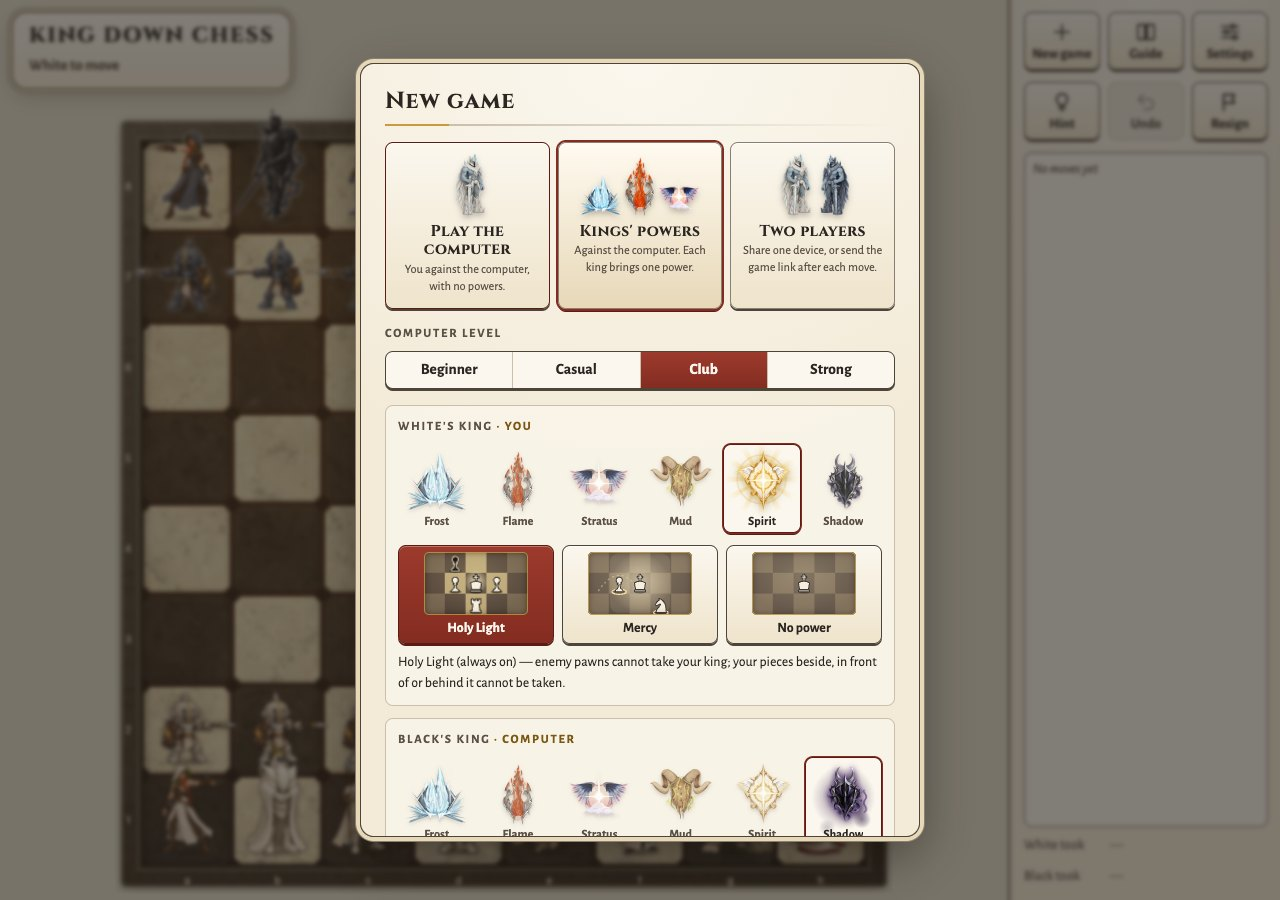
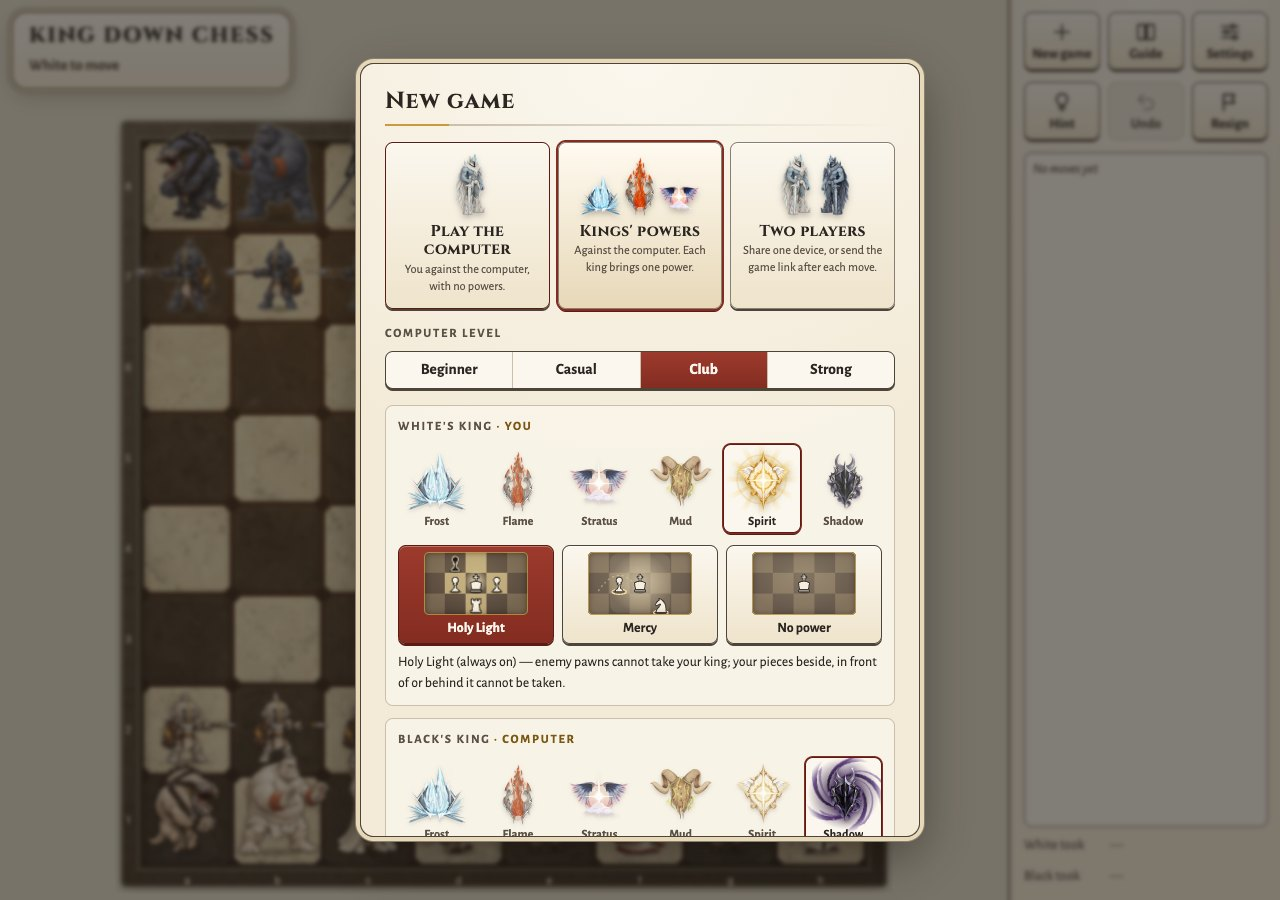
Emblem effects: a dark purple vortex behind Shadow, wind gusts behind Stratus
Owner, on the preview: "shadow emblem animation - not that. should be a dark purple vortex
behind it." and "stratus emblem - remove the moving clouds. the lines at the back should look
more like wind gusts."

Shadow: five spiral arms, deep purple to near-black, turning slowly behind the emblem; fainter
arms and motes are drawn into its eye. Stratus: six gusts behind the emblem, each a curved
streak with a curled tip that sweeps across and fades at its own speed; no clouds or rings.
The other four emblems and the twelve power pictures are unchanged.

Claude-Session: desktop 1c5adfa2-c747-4b20-ac72-5d45fc6131ab

diff --git a/src/power-motion.ts b/src/power-motion.ts
@@ -179,6 +179,40 @@ const sparkle = (x: number, y: number, s: number, n: number): string =>
 const dot = (cls: string, x: number, y: number, r: number, n: number): string =>
   `<circle class="a c ${cls} kx-d${n}" cx="${x}" cy="${y}" r="${r}"/>`;
 
+/**
+ * A gust from (x, y), `len` long to the right (`dir` 1) or left (-1), bending by `bend`, ending in a
+ * curl up (`curl` 1) or down (-1). Drawn and erased along its length (pathLength 100) by CSS.
+ */
+function gust(x: number, y: number, len: number, bend: number, curl: number, cls: string, width: 1 | 2): string {
+  const d = (dx: number) => (dx * (x > 50 ? -1 : 1) * (Math.abs(dx) < 10 ? 1.35 : 1)).toFixed(1), c = (dy: number) => (dy * curl * 1.35).toFixed(1);
+  const path = `M${x} ${y}c${d(len * .3)} ${-bend} ${d(len * .62)} ${bend} ${d(len)} ${c(-1.5)}`
+    + `c${d(5)} ${c(-1)} ${d(8)} ${c(-5)} ${d(5)} ${c(-8)}c${d(-2.6)} ${c(-2.6)} ${d(-6.4)} ${c(-.6)} ${d(-5)} ${c(2.4)}c${d(.9)} ${c(1.8)} ${d(3.4)} ${c(1.4)} ${d(3.6)} ${c(-.2)}`;
+  return `<path class="a kx-gust ${cls} gust-${width}" d="${path}" pathLength="100"/>`;
+}
+
+/**
+ * `arms` spiral arms around (50, 50), each turning inward counter-clockwise from radius `r` to 4 and
+ * narrowing from `w` radians; `turn0` rotates the whole set. Turned clockwise, the arms seem to flow in.
+ */
+function vortex(arms: number, r: number, w: number, turn0: number): string {
+  const T = 1.7 * Math.PI, N = 26, k = Math.log(r / 4) / T;
+  const pt = (t: number, a: number) => {
+    const rad = r * Math.exp(-k * t);
+    return `${(50 + rad * Math.cos(a)).toFixed(1)} ${(50 + rad * Math.sin(a)).toFixed(1)}`;
+  };
+  let d = '';
+  for (let i = 0; i < arms; i++) {
+    const base = turn0 + i * 2 * Math.PI / arms, edge: string[] = [], back: string[] = [];
+    for (let j = 0; j <= N; j++) {
+      const t = T * j / N, a = base - t;
+      edge.push(pt(t, a));
+      back.push(pt(t, a + w * (1 - .7 * j / N)));
+    }
+    d += `M${edge.join('L')}L${back.reverse().join('L')}z`;
+  }
+  return d;
+}
+
 const FX: Record<KingName, (g: string) => [back: string, front: string]> = {
   Frost: g => [
     `<defs>${grad(g, '#9fd8ff', .75)}</defs><circle class="a c kx-glow" cx="50" cy="56" r="48" fill="url(#${g})"/>`,
@@ -191,13 +225,13 @@ const FX: Record<KingName, (g: string) => [back: string, front: string]> = {
       + dot('kx-ember ember', 28, 26, 2, 4) + dot('kx-ember ember ember-hot', 52, 4, 1.7, 5) + dot('kx-ember ember ember-hot', 72, 22, 1.6, 6)
       + dot('kx-ember ember ember-hot', 40, 50, 1.5, 3) + dot('kx-ember ember', 62, 58, 1.8, 5),
   ],
+  // Stratus: wind gusts behind the emblem, each a curved streak with a curled tip that sweeps across
+  // and fades, at its own speed. The emblem has its own painted clouds.
   Stratus: g => [
-    `<defs>${grad(g, '#cfe6ff', .8)}</defs><circle class="a c kx-glow" cx="50" cy="50" r="48" fill="url(#${g})"/>`
-      + '<circle class="a c kx-spin wind" cx="50" cy="48" r="44" pathLength="100"/>',
-    '<circle class="a c kx-spin-r wind wind-2" cx="50" cy="50" r="38" pathLength="100"/>'
-      + '<g class="a kx-cloud kx-d0"><path class="cloud" d="M8 86a6 6 0 0 1 6-7 8 8 0 0 1 15-2 5 5 0 0 1 4 9z"/></g>'
-      + '<g class="a kx-cloud-r kx-d2"><path class="cloud" d="M64 92a5 5 0 0 1 5-6 7 7 0 0 1 13-1 4.5 4.5 0 0 1 3 7z"/></g>'
-      + '<path class="a kx-gust gust-line kx-d1" d="M6 30q14-6 26 0"/><path class="a kx-gust gust-line kx-d3" d="M66 64q14-6 28 0"/>',
+    `<defs>${grad(g, '#cfe6ff', .7)}</defs><circle class="a c kx-glow" cx="50" cy="50" r="48" fill="url(#${g})"/>`
+      + gust(-12, 8, 82, 8, 1, 'kx-g1', 1) + gust(112, 20, 70, -8, -1, 'kx-g2', 2) + gust(-14, 66, 60, 7, -1, 'kx-g3', 1)
+      + gust(114, 86, 76, 8, 1, 'kx-g4', 2) + gust(-10, 94, 66, -6, 1, 'kx-g5', 1) + gust(110, 36, 46, 6, -1, 'kx-g6', 2),
+    '',
   ],
   Mud: g => [
     `<defs><radialGradient id="${g}"><stop offset="0" stop-color="#9aae4a" stop-opacity=".7"/><stop offset=".6" stop-color="#8a6a32" stop-opacity=".3"/><stop offset="1" stop-color="#8a6a32" stop-opacity="0"/></radialGradient></defs><circle class="a c kx-glow" cx="50" cy="56" r="48" fill="url(#${g})"/>`,
@@ -220,14 +254,21 @@ const FX: Record<KingName, (g: string) => [back: string, front: string]> = {
       dot('kx-rise light', 30, 70, 1.4, 1) + dot('kx-rise light', 70, 66, 1.2, 4) + dot('kx-rise light', 54, 80, 1.1, 2),
     ];
   },
-  Shadow: g => [
-    `<defs>${grad(g, '#3a1f52', .75)}<radialGradient id="${g}s"><stop offset="0" stop-color="#2c1a3c" stop-opacity=".55"/><stop offset=".55" stop-color="#3b2350" stop-opacity=".3"/><stop offset="1" stop-color="#3b2350" stop-opacity="0"/></radialGradient></defs>`
-      + `<circle class="a c kx-aura" cx="50" cy="56" r="50" fill="url(#${g})"/>`
-      + `<circle class="a c kx-smoke kx-d0" cx="28" cy="72" r="24" fill="url(#${g}s)"/><circle class="a c kx-smoke kx-d2" cx="72" cy="68" r="22" fill="url(#${g}s)"/><circle class="a c kx-smoke kx-d4" cx="50" cy="44" r="26" fill="url(#${g}s)"/>`,
-    `<circle class="a c kx-smoke kx-d1" cx="24" cy="92" r="18" fill="url(#${g}s)"/><circle class="a c kx-smoke kx-d3" cx="78" cy="90" r="16" fill="url(#${g}s)"/>`
-      + '<path class="a kx-curl curl kx-d0" d="M16 84c-8-10 6-14 0-24s4-14 2-20"/><path class="a kx-curl curl kx-d2" d="M84 80c8-10-6-14 0-24s-4-14-2-20"/>'
-      + '<path class="a kx-curl curl curl-2 kx-d4" d="M50 98c-6-8 5-12 0-20"/>',
-  ],
+  // Shadow: a dark purple vortex behind the emblem, turning slowly; fainter arms and motes of light are
+  // drawn into its eye.
+  Shadow: g => {
+    const ink = `<radialGradient id="${g}a" gradientUnits="userSpaceOnUse" cx="50" cy="50" r="62"><stop offset="0" stop-color="#050307" stop-opacity=".97"/>`
+      + '<stop offset=".45" stop-color="#170a24" stop-opacity=".92"/><stop offset=".78" stop-color="#3a1863" stop-opacity=".72"/><stop offset="1" stop-color="#4a2380" stop-opacity="0"/></radialGradient>';
+    const disc = `<radialGradient id="${g}d"><stop offset="0" stop-color="#050307" stop-opacity=".95"/><stop offset=".55" stop-color="#1f0e30" stop-opacity=".65"/><stop offset="1" stop-color="#2e1546" stop-opacity="0"/></radialGradient>`;
+    return [
+      `<defs>${ink}${disc}</defs><circle class="a c kx-eye" cx="50" cy="50" r="56" fill="url(#${g}d)"/>`
+        + `<g class="a kx-vx kx-turn"><path d="${vortex(5, 62, .34, 0)}" fill="url(#${g}a)"/></g>`
+        + `<g class="a kx-vx kx-pull kx-p0"><path class="vx-light" d="${vortex(5, 58, .16, .6)}"/></g>`
+        + `<g class="a kx-vx kx-pull kx-p1"><path class="vx-light" d="${vortex(5, 58, .16, .6)}"/></g>`
+        + [0, 1, 2, 3].map(n => `<circle class="a c kx-mote-in kx-m${n} vx-mote" cx="50" cy="50" r="1.5"/>`).join(''),
+      '',
+    ];
+  },
 };
 
 /**

diff --git a/src/power-motion.css b/src/power-motion.css
@@ -368,19 +368,18 @@ button.emblem[aria-pressed='true'] .kx-shadow img { filter: drop-shadow(0 0 3px 
   100% { opacity: 0; transform: translate(calc(var(--dx) * -.5), -28px) scale(.4); }
 }
 
-/* Stratus: wind and drifting clouds */
-.kx .wind { fill: none; stroke: #6f9fcc; stroke-width: 2.4; stroke-linecap: round; stroke-dasharray: 20 12 7 61; opacity: .85; }
-.kx .wind-2 { stroke: #9cc0e4; stroke-width: 1.7; stroke-dasharray: 15 35; }
-.kx .cloud { fill: #fff; stroke: #9db9d6; stroke-width: 1; }
-.kx .gust-line { fill: none; stroke: #8db3d8; stroke-width: 1.8; stroke-linecap: round; }
-.kx-spin { animation: kx-spin 6s linear infinite; }
-.kx-spin-r { animation: kx-spin 4.4s linear infinite reverse; }
-.kx-cloud { animation: kx-drift 4.2s ease-in-out infinite; --dx: 9px; }
-.kx-cloud-r { animation: kx-drift 4.2s ease-in-out infinite; --dx: -8px; }
-.kx-gust { opacity: .7; animation: kx-gust 2.6s ease-in-out infinite; }
-@keyframes kx-spin { to { transform: rotate(360deg); } }
-@keyframes kx-drift { 0%, 100% { transform: none; } 50% { transform: translateX(var(--dx)); } }
-@keyframes kx-gust { 0% { opacity: 0; transform: translateX(-10px); } 30% { opacity: .9; } 70% { opacity: .6; } 100% { opacity: 0; transform: translateX(14px); } }
+/* Stratus: wind gusts behind the emblem, each at its own speed */
+.kx .kx-gust { fill: none; stroke-linecap: round; stroke-linejoin: round; stroke-dasharray: 100 100; opacity: .75; }
+.kx .gust-1 { stroke: #6795c4; stroke-width: 2.6; }
+.kx .gust-2 { stroke: #92b8e0; stroke-width: 1.9; }
+.kx-gust { animation: kx-gust 2.4s cubic-bezier(.45, .05, .55, .95) infinite; }
+.kx .kx-g1 { animation-duration: 2.3s; animation-delay: 0s; } .kx .kx-g2 { animation-duration: 3.1s; animation-delay: -1.2s; }
+.kx .kx-g3 { animation-duration: 1.8s; animation-delay: -.5s; } .kx .kx-g4 { animation-duration: 2.7s; animation-delay: -2s; }
+.kx .kx-g5 { animation-duration: 2.1s; animation-delay: -1.5s; } .kx .kx-g6 { animation-duration: 3.4s; animation-delay: -.9s; }
+@keyframes kx-gust {
+  0% { stroke-dashoffset: 100; opacity: 0; transform: translateX(-5px); } 12% { opacity: .9; }
+  48% { stroke-dashoffset: 0; } 78% { opacity: .8; } 100% { stroke-dashoffset: -100; opacity: 0; transform: translateX(6px); }
+}
 
 /* Mud: falling leaves and earth motes */
 .kx .leaf { fill: #7da33a; stroke: #3d5a1c; stroke-width: .5; }
@@ -405,13 +404,19 @@ button.emblem[aria-pressed='true'] .kx-shadow img { filter: drop-shadow(0 0 3px 
 @keyframes kx-rays { to { transform: rotate(30deg); } }
 @keyframes kx-halo { 0% { opacity: .9; transform: scale(.72); } 100% { opacity: 0; transform: scale(1.5); } }
 
-/* Shadow: curling smoke and a dark aura */
-.kx .curl { fill: none; stroke: rgba(74, 40, 104, .7); stroke-width: 2.6; stroke-linecap: round; }
-.kx .curl-2 { stroke: rgba(120, 80, 160, .55); stroke-width: 1.8; }
-.kx-aura { animation: kx-glow 3.2s ease-in-out infinite; }
-.kx-smoke { opacity: .8; animation: kx-smoke 3.6s ease-in-out infinite; }
-.kx-curl { opacity: .6; animation: kx-curl 3s ease-in-out infinite; }
-@keyframes kx-smoke {
-  0% { opacity: 0; transform: translateY(12px) scale(.7); } 30% { opacity: 1; } 100% { opacity: 0; transform: translate(var(--dx), -26px) scale(1.35); }
+/* Shadow: a dark purple vortex behind the emblem, drawing inward */
+.kx .vx-light { fill: #4f2580; }
+.kx .vx-mote { fill: #a983d8; }
+.kx .kx-vx { transform-box: view-box; transform-origin: 50% 50%; }
+.kx-turn { animation: kx-turn 9s linear infinite; }
+.kx-pull { opacity: .35; animation: kx-pull 3.4s cubic-bezier(.5, 0, .9, .6) infinite; }
+.kx .kx-p1 { animation-delay: -1.7s; }
+.kx-eye { animation: kx-glow 3.4s ease-in-out infinite; }
+.kx-mote-in { opacity: 0; animation: kx-mote-in 2.8s cubic-bezier(.4, 0, .9, .5) infinite; }
+.kx .kx-m1 { animation-delay: -.7s; --a: 90deg; } .kx .kx-m2 { animation-delay: -1.4s; --a: 200deg; } .kx .kx-m3 { animation-delay: -2.1s; --a: 300deg; }
+@keyframes kx-turn { to { transform: rotate(360deg); } }
+@keyframes kx-pull { 0% { opacity: 0; transform: scale(1.15); } 30% { opacity: .5; } 100% { opacity: 0; transform: rotate(150deg) scale(.4); } }
+@keyframes kx-mote-in {
+  0% { opacity: 0; transform: rotate(var(--a, 0deg)) translateX(46px); } 20% { opacity: .9; }
+  100% { opacity: 0; transform: rotate(calc(var(--a, 0deg) + 330deg)) translateX(3px); }
 }
-@keyframes kx-curl { 0% { opacity: 0; transform: translateY(10px) scaleY(.7); } 35% { opacity: .9; } 100% { opacity: 0; transform: translate(var(--dx), -20px) rotate(10deg) scaleY(1.15); } }

diff --git a/TASKS.md b/TASKS.md
@@ -5,9 +5,11 @@
 - Owner, the same day: "show me the animations before adding them. i want to approve." Branch `claude/power-motion` (from `claude/six-kings`), not merged, not deployed. The preview for approval was a standalone page with the twelve power animations and six emblem effects live, plus videos of the dialog (desktop, phone, close-up), all made from this branch's build.
 - [x] `src/power-motion.ts` + `src/power-motion.css`: each power button shows a 5 × 3 board vignette above its label. Inline SVG, our pieces ivory and the enemy dark (swapped in Black's picker), one 3.2 s loop per power, true to the official lines (`powerText`): Freeze (an ice shard from the king; the rook frosts over and only shakes), Ice Wall (an ice dome rises over the knight; the bishop bounces off it), Strike (a knight dashes four squares like a queen, trailing fire), Haste (one rook, two moves, a pip for each), Flight (a bishop lifted over its own pawns to an empty square; its shadow stays on the board), Sacrifice (a captured rook's spirit comes down into a pawn, which becomes it), March (two pawns step two squares), Leap (a rook vaults its own pawns), Holy Light (light on the squares beside, in front and behind; an enemy pawn's capture of the king is turned back), Mercy (the king steps two squares over its own pawn; its neighbours get a shield), Death Touch (the king does not move; its touch takes a knight two squares away), Darkness (a pawn steps diagonally; another takes only straight ahead). No power shows a plain king, still.
 - [x] The vignette is still when idle. It plays on hover, keyboard focus and while its power is chosen, and every loop starts and ends on that still frame. With reduced motion, the still frame shows the power.
-- [x] The chosen emblem is live, behind and in front of its image, with an element rim light: Frost (twinkling frost stars, falling snow, a cold glow), Flame (rising embers, a flickering heat glow), Stratus (two turning wind rings, drifting clouds, gusts), Mud (falling leaves, rising earth motes, a green-brown glow), Spirit (turning rays, a pulsing halo, motes of light), Shadow (rising smoke, curling wisps, a dark aura). Emblems that are not chosen stay still (the hover is unchanged).
+- [x] The chosen emblem is live, behind and in front of its image, with an element rim light: Frost (twinkling frost stars, falling snow, a cold glow), Flame (rising embers, a flickering heat glow), Stratus (wind gusts behind it: curved streaks with curled tips that sweep across and fade, six at different speeds; no clouds), Mud (falling leaves, rising earth motes, a green-brown glow), Spirit (turning rays, a pulsing halo, motes of light), Shadow (a vortex behind it: five spiral arms, deep purple to near-black, turning slowly; fainter arms and motes are drawn into its eye). Emblems that are not chosen stay still (the hover is unchanged).
 - [x] Buttons keep their width and accessible names ("Freeze", "Spirit"…); the art is `aria-hidden` and has no text. Power buttons grow taller for the picture: 40 → 99 px on a computer, 44 → 87 px on a 390 px phone; labels stay 14 px and whole.
 - [x] Cost (production build, Chromium, base `45e5051` against the branch, two runs each): the dialog opens in the same time (17–33 ms against 22–26 ms) and plays at 60 fps (p95 frame 16.8–17.7 ms, the same as base). Only transform, opacity and one stroke draw are animated; each animated SVG has one small layout pass per frame, inside the SVG (about 0.04 ms). With the picker open, the main thread works about 50 ms a second (base: 7.5). At 6× CPU slowdown it stays at 60 fps (p95 ≤ 18.5 ms), and the main thread is about 30% busy. First load: 4.4 kB more CSS and 4.4 kB more script (gzip). CSS containment changed nothing. Moving the parts into HTML layers saved only about 25% in a test, so it was not done.
+- **Owner, on the first preview (2026-10-04):** "shadow emblem animation - not that. should be a dark purple vortex behind it." · "stratus emblem - remove the moving clouds. the lines at the back should look more like wind gusts."
+- [x] Shadow: the smoke, wisps and aura are replaced by the vortex, behind the emblem only. Stratus: the clouds and wind rings are replaced by the gusts, behind the emblem; they stay clear of the label. The other four emblems and the twelve power pictures are unchanged. Preview, contact sheet and videos made again. Checks as below, passed again: tsc; vitest 452/452; build; `verify-new-game.mjs` 15/15; `verify-powers.mjs` 9/9; `docs/visual-design/verify.mjs` 12/12.
 - [ ] Owner: approve or change the animations (the preview page and videos). Then merge.
 - Possible next places for the same vignettes, not added: the Guide's power list (`#powers-list`, one line per king) could show each power's still frame, playing on hover. The in-game `#power-btn` could carry the vignette while a power is armed. Darkness shows the pawn part only. On `claude/rules-r18` Darkness also gives the king a two-square step, and Mercy (M2) lets enemy pawns take its neighbours. The Mercy scene stays true to both readings, because it shows no capture.
 - Verified (production build, `vite preview`, Chromium): tsc; vitest 452/452 (3 new in `src/power-motion.test.ts`: twelve vignettes and No power with no text, unique gradient ids per copy, emblem layers hidden from screen readers); build; `tools/verify-new-game.mjs` 15/15 (new: names and pressed states unchanged, art hidden from screen readers; only the chosen power, a hovered one and the chosen emblem move, by transform, opacity and a stroke draw; phone power buttons ≥ 44 px with whole 14 px labels; reduced motion: no animation, the still frames show); `tools/verify-powers.mjs` 9/9; `docs/visual-design/verify.mjs` 12/12. The two Kings' powers screenshots in `docs/visual-design/new-game/` show the new buttons. The other screenshots that the checks rewrite were restored.
